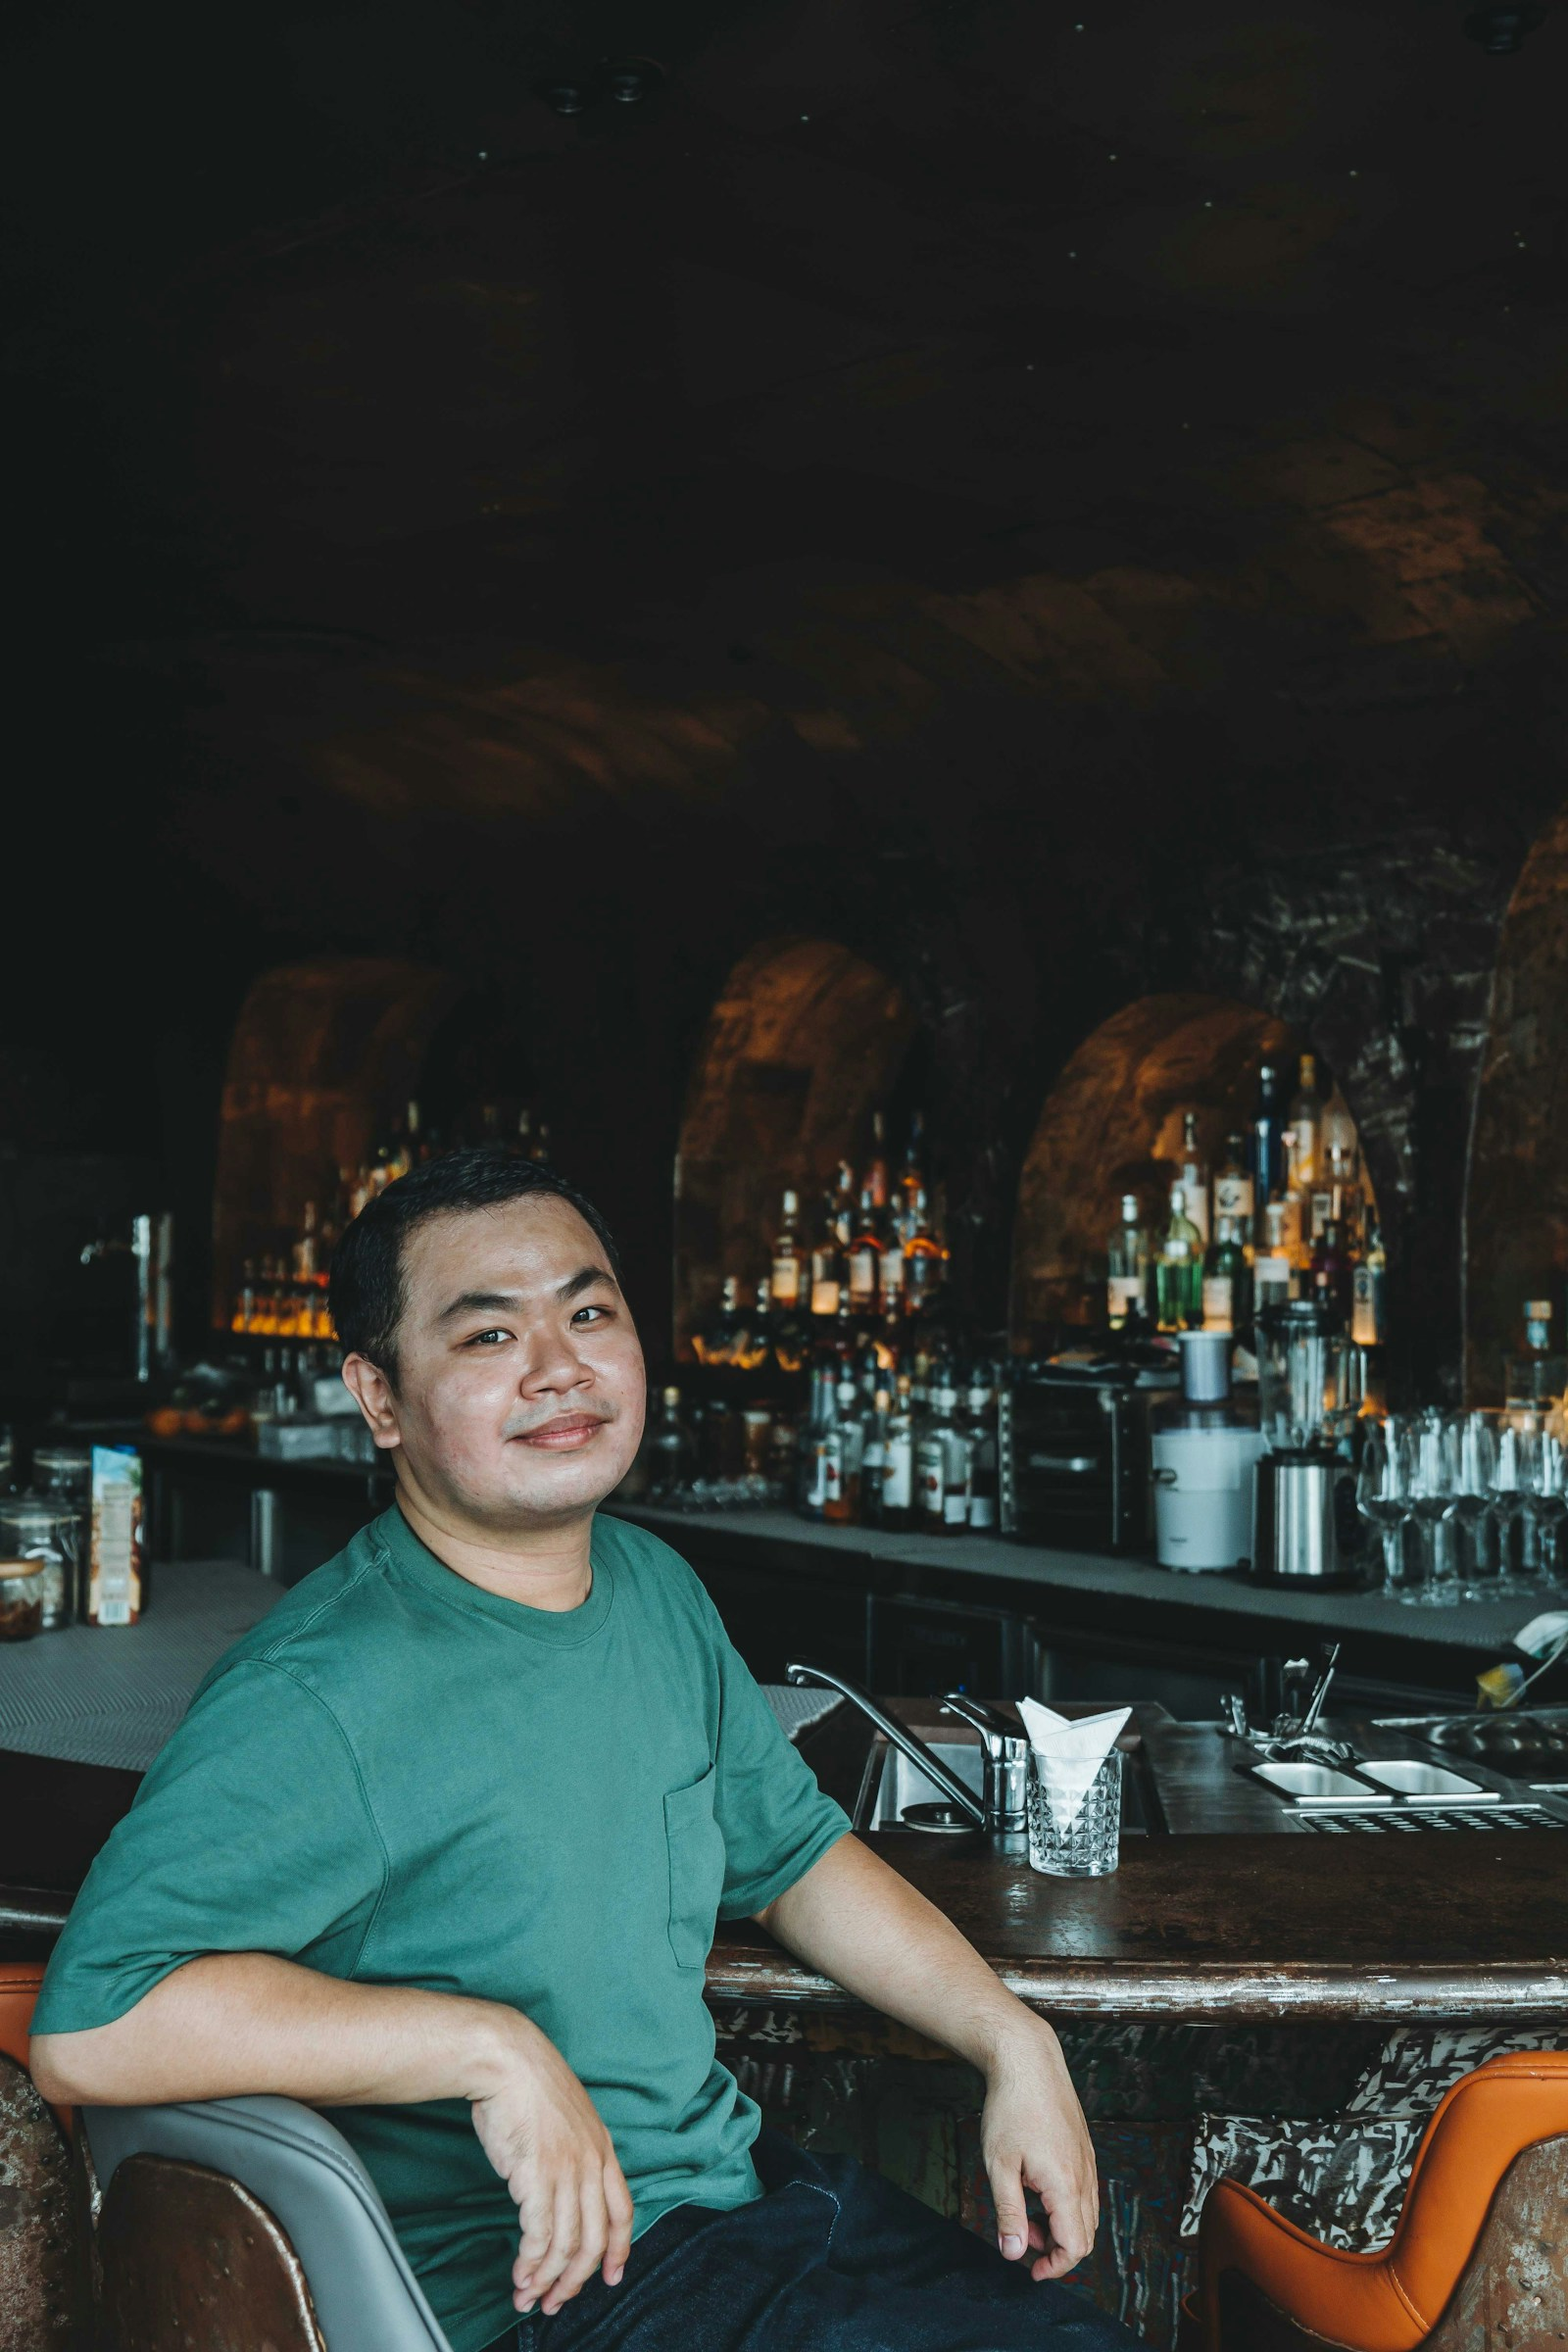
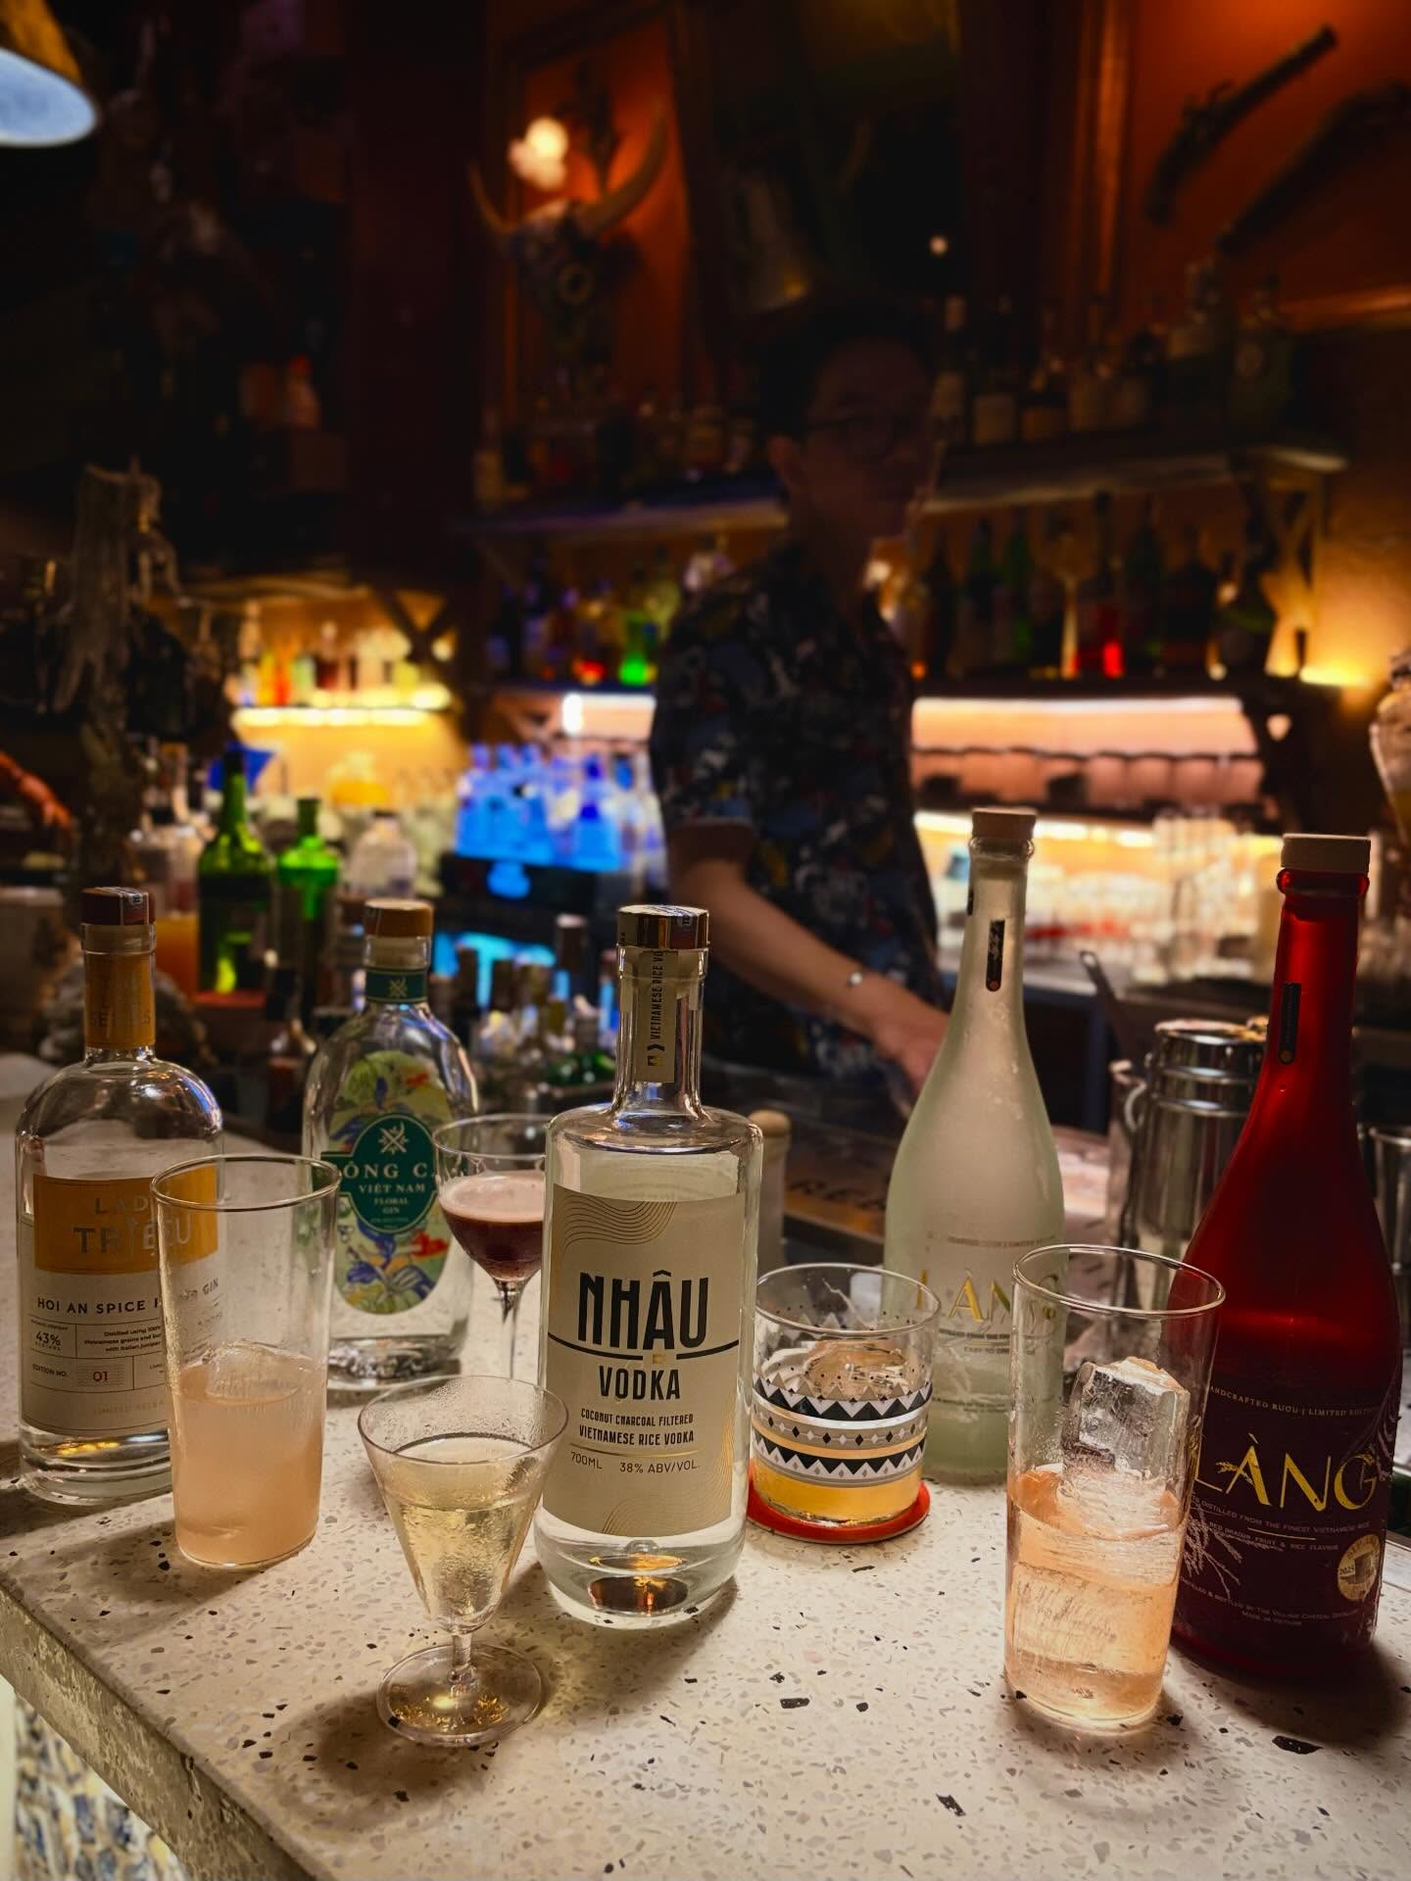
Replace stock bar-craft photo with Firebirds Vietnamese craft spirits photo (#3)

diff --git a/source/src/i18n.ts b/source/src/i18n.ts
@@ -28,6 +28,7 @@ export interface StoryContent {
   subtitle: string
   hero: string
   detail: string
+  detailAlt: string
   detailCaption: string
   tone: "retro" | "street"
   leadLabel: string
@@ -176,7 +177,7 @@ export const translations: Record<Locale, SiteCopy> = {
         "You go far enough, you stop looking for new. You start looking for true.",
     },
     manifesto: {
-      imageAlt: "A bartender pouring a craft cocktail in an intimate Vietnamese bar",
+      imageAlt: "Vietnamese craft spirits including Nhau Rice Vodka, Song Cai Floral Gin, Lady Trieu Gin, and Lang alongside finished cocktails on the terrazzo bar",
       sectionNumber: "In every glass",
       kicker: "Less performance. More flavour.",
       title1: "Vietnam is not our theme.",
@@ -249,6 +250,7 @@ export const translations: Record<Locale, SiteCopy> = {
         subtitle: "Vietnam, before everything became new",
         hero: "/images/firebirds-original.jpg",
         detail: "/images/firebirds-founders.jpg",
+        detailAlt: "The founders behind the bar at Firebirds Tropical Origin in Da Nang",
         detailCaption: "Found and made in Vietnam",
         tone: "retro",
         leadLabel: "The thought behind the room",
@@ -297,7 +299,8 @@ export const translations: Record<Locale, SiteCopy> = {
         title: "The alley after rain",
         subtitle: "Vietnam street craft, with the volume left on",
         hero: "/images/vietnam-cocktail.jpg",
-        detail: "/images/bar-craft.jpg",
+        detail: "/images/gallery/vc-04.jpg",
+        detailAlt: "White veined marble bar counter, warm chandelier, and crimson neon under-glow inside Firebirds Vietnam Craft Cocktail",
         detailCaption: "Distilled from the street",
         tone: "street",
         leadLabel: "The thought behind the room",
@@ -395,7 +398,7 @@ export const translations: Record<Locale, SiteCopy> = {
         "Đi đủ xa, người ta thôi tìm cái mới lạ. Người ta bắt đầu tìm về cái chân thật.",
     },
     manifesto: {
-      imageAlt: "Bartender đang chăm chút từng ly cocktail thủ công",
+      imageAlt: "Những chai rượu thủ công Việt Nam như Nhậu, Sông Cái, Lady Triệu và Làng đặt cạnh những ly cocktail hoàn thiện trên mặt quầy đá mài ấm áp",
       sectionNumber: "Trong từng chiếc ly",
       kicker: "Bớt trình diễn. Thêm hương vị.",
       title1: "Việt Nam không phải chủ đề.",
@@ -468,6 +471,7 @@ export const translations: Record<Locale, SiteCopy> = {
         subtitle: "Việt Nam của những ngày chưa kịp cũ",
         hero: "/images/firebirds-original.jpg",
         detail: "/images/firebirds-founders.jpg",
+        detailAlt: "Những người sáng lập phía sau quầy bar tại Firebirds Tropical Origin Đà Nẵng",
         detailCaption: "Tìm thấy và làm bằng tay tại Việt Nam",
         tone: "retro",
         leadLabel: "Khởi nguồn của căn phòng",
@@ -516,7 +520,8 @@ export const translations: Record<Locale, SiteCopy> = {
         title: "Con hẻm nhỏ sau cơn mưa",
         subtitle: "Nghề thủ công đường phố Việt, giữ nguyên nhịp đập",
         hero: "/images/vietnam-cocktail.jpg",
-        detail: "/images/bar-craft.jpg",
+        detail: "/images/gallery/vc-04.jpg",
+        detailAlt: "Quầy bar đá cẩm thạch trắng, đèn chùm ấm áp và ánh đèn neon đỏ dưới chân quầy tại Firebirds Vietnam Craft Cocktail",
         detailCaption: "Chưng cất từ hơi thở đường phố",
         tone: "street",
         leadLabel: "Khởi nguồn của căn phòng",
@@ -614,7 +619,7 @@ export const translations: Record<Locale, SiteCopy> = {
         "十分に遠くまで行けば、目新しいものを探すのをやめる。本当に大切なものを探し始めるのだ。",
     },
     manifesto: {
-      imageAlt: "ベトナムのバーで丁寧にカクテルを注ぐバーテンダー",
+      imageAlt: "テラゾーカウンターに並ぶNhauやSong Cai、Lady Trieu、Langなどのベトナム産クラフトスピリッツとカクテル",
       sectionNumber: "すべてのグラスに",
       kicker: "演出は控えめに。味わいを深く。",
       title1: "ベトナムはテーマではない。",
@@ -687,6 +692,7 @@ export const translations: Record<Locale, SiteCopy> = {
         subtitle: "すべてが新しくなる前のベトナム",
         hero: "/images/firebirds-original.jpg",
         detail: "/images/firebirds-founders.jpg",
+        detailAlt: "ダナンのFirebirds Tropical Originのカウンターに立つ創業者たち",
         detailCaption: "ベトナムで見つけ、手で作られたもの",
         tone: "retro",
         leadLabel: "この部屋に込めた想い",
@@ -735,7 +741,8 @@ export const translations: Record<Locale, SiteCopy> = {
         title: "雨上がりの路地裏で",
         subtitle: "ボリュームを下げない、ベトナムのストリートクラフト",
         hero: "/images/vietnam-cocktail.jpg",
-        detail: "/images/bar-craft.jpg",
+        detail: "/images/gallery/vc-04.jpg",
+        detailAlt: "白い大理石のカウンターとシャンデリア、赤いネオンのアンダーライトが輝くFirebirds Vietnam Craft Cocktailの店内",
         detailCaption: "路地の息遣いを蒸留する",
         tone: "street",
         leadLabel: "この部屋に込めた想い",
@@ -833,7 +840,7 @@ export const translations: Record<Locale, SiteCopy> = {
         "충분히 멀리 가본 사람은 더 이상 새로운 것을 찾지 않는다. 진짜를 찾기 시작한다.",
     },
     manifesto: {
-      imageAlt: "아늑한 베트남 바에서 정성껏 칵테일을 만드는 바텐더",
+      imageAlt: "테라조 바 카운터 위에 놓인 냐우(Nhau), 송카이(Song Cai), 레이디 찌에우(Lady Trieu), 랑(Lang) 등 베트남 크래프트 스피릿과 칵테일",
       sectionNumber: "모든 잔 속에 담긴 것",
       kicker: "보여주기식 퍼포먼스는 줄이고, 풍미는 깊게.",
       title1: "베트남은 우리의 컨셉이 아닙니다.",
@@ -906,6 +913,7 @@ export const translations: Record<Locale, SiteCopy> = {
         subtitle: "모든 것이 새로워지기 전의 베트남",
         hero: "/images/firebirds-original.jpg",
         detail: "/images/firebirds-founders.jpg",
+        detailAlt: "다낭 Firebirds Tropical Origin 바 카운터 뒤의 창업자들",
         detailCaption: "베트남에서 찾고 손으로 직접 만든 공간",
         tone: "retro",
         leadLabel: "이 공간에 담긴 생각",
@@ -954,7 +962,8 @@ export const translations: Record<Locale, SiteCopy> = {
         title: "비 개인 뒤의 골목길",
         subtitle: "볼륨을 줄이지 않은 베트남 스트리트 크래프트",
         hero: "/images/vietnam-cocktail.jpg",
-        detail: "/images/bar-craft.jpg",
+        detail: "/images/gallery/vc-04.jpg",
+        detailAlt: "하얀 마블 바 카운터와 샹들리에, 붉은 네온 언더글로우가 어우러진 Firebirds Vietnam Craft Cocktail 내부",
         detailCaption: "거리의 숨결을 증류하다",
         tone: "street",
         leadLabel: "이 공간에 담긴 생각",

diff --git a/source/public/404.html b/source/public/404.html
@@ -25,7 +25,7 @@
     <script type="application/ld+json">
       {"@context":"https://schema.org","@graph":[{"@type":["BarOrPub","LocalBusiness"],"name":"Firebirds - Tropical Origin","telephone":"+84905241595","address":{"@type":"PostalAddress","streetAddress":"2D My Khe 7, Phuoc My","addressLocality":"Da Nang","addressRegion":"Son Tra","postalCode":"50000","addressCountry":"VN"},"geo":{"@type":"GeoCoordinates","latitude":16.065068,"longitude":108.239235},"hasMap":"https://share.google/Ppgwmcre6G583Irjb"},{"@type":["BarOrPub","LocalBusiness"],"name":"Firebirds - Vietnam Craft Cocktail","telephone":"+84905241595","address":{"@type":"PostalAddress","streetAddress":"27/1 Thai Phien, Phuoc Ninh","addressLocality":"Da Nang","addressRegion":"Hai Chau","postalCode":"550000","addressCountry":"VN"},"hasMap":"https://share.google/Hb9ooPZBY0onG1ihP"}]}
     </script>
-    <script type="module" crossorigin src="/assets/index-BDcC3GGT.js"></script>
+    <script type="module" crossorigin src="/assets/index-AxIua2Ug.js"></script>
     <link rel="stylesheet" crossorigin href="/assets/index-BbmQ_tbc.css">
   </head>
   <body>

diff --git a/source/src/App.tsx b/source/src/App.tsx
@@ -164,7 +164,7 @@ function StoryPage({
           <div className="story-detail-image">
             <img
               src={story.detail}
-              alt={`Details that inspired ${venue.name}`}
+              alt={story.detailAlt}
             />
             <span>{story.detailCaption}</span>
           </div>
